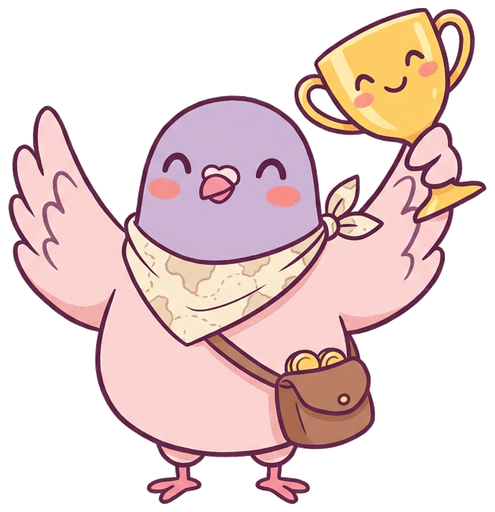
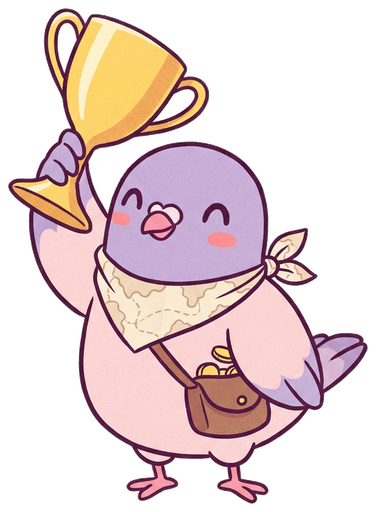
Mascot: trophy and ledger art with the lilac wing tips and tail (Tilly)
trophy-a had all-pink wings and ledger-a showed no lilac, unlike the original wave/celebrate art.
Swapped to the existing trophy-b and ledger-b candidates, which have the lilac tips and tail; the other
ten product poses already had them. make.py now names the mascot Tilly, asks for lilac wing tips and a
lilac tail, retries upstream failures, and builds sheet-v3.png (original wave next to every candidate).
A fresh round (seeds d/e/f) could not run: every Nicrron image job fails with upstream fal 403.

diff --git a/design/mascots/atlas_v2/make.py b/design/mascots/atlas_v2/make.py
@@ -1,8 +1,9 @@
-"""Atlas v2 poses: generate on Nicrron (google/nano-banana-pro), cut to transparent PNG, build the contact sheet.
+"""Tilly (formerly Atlas) poses: generate on Nicrron (google/nano-banana-pro), cut to transparent PNG, build contact sheets.
 
-    .venv/bin/python design/mascots/atlas_v2/make.py gen [pose ...] [--cand a|b]
+    .venv/bin/python design/mascots/atlas_v2/make.py gen [pose ...] [--cand a|b|c|d|e|f]
     .venv/bin/python design/mascots/atlas_v2/make.py cut
-    .venv/bin/python design/mascots/atlas_v2/make.py sheet
+    .venv/bin/python design/mascots/atlas_v2/make.py sheet     # v2 candidates a/b -> sheet.png, pick.html
+    .venv/bin/python design/mascots/atlas_v2/make.py sheet3    # product poses vs original wave, picks -> sheet-v3.png
 
 Nicrron's image endpoint takes only model, prompt and seed (no reference image), so consistency comes from
 reusing the character and style wording of the original atlas_flat sheet word for word. Candidates differ by seed.
@@ -25,7 +26,7 @@ load_dotenv(ROOT / ".env")
 
 # Character and style sentences copied from the prompt that made design/mascots/atlas_flat/sheet.png.
 CHARACTER = (
-    "The character: Atlas, a chubby carrier pigeon with a round lilac head, blush-pink body, small pink beak, eyes always drawn as happy closed "
+    "The character: Tilly, a chubby carrier pigeon with a round lilac head, blush-pink body, small pink beak, eyes always drawn as happy closed "
     "upward crescent arcs like ^ ^ with rosy cheek blush, a small brown cross-body satchel with gold coins, a cream map-print neck scarf."
 )
 STYLE = (
@@ -37,7 +38,12 @@ FRAME = (
     "no text, no letters, no numbers, no symbols, no logos. Not a die-cut sticker: no white sticker edge, no outer outline, no drop shadow."
 )
 # Details the original sheet shows that a single pose tends to lose.
-DETAILS = "Small pink feet. The scarf is a cream bandana neckerchief tied in a small knot at the side, with a faint beige map print."
+DETAILS = (
+    "Small pink feet. The scarf is a cream bandana neckerchief tied in a small knot at the side, with a faint beige map print. "
+    # Round d/e/f: the original wave/celebrate art has these, and a/b lost them on some poses (e.g. all-pink trophy wings).
+    "Both wings are blush pink with soft lilac-purple tips on the outer flight feathers, and the short tail feathers are lilac, "
+    "the same lilac as the head."
+)
 EYES = "The eyes are closed happy arcs ^ ^ with no pupils and no dots."
 
 POSES = {
@@ -58,7 +64,10 @@ POSES = {
     "sleeping": "Pose: curled up asleep on a soft lavender pillow, eyes closed as gentle downward arcs, a few small round sleep bubbles.",
     "star-badge": "Pose: holding up a big shiny gold star badge with both wings.",
 }
-SEEDS = {"a": 1100, "b": 2200, "c": 3300}  # c: one retry for poses that came out off-model
+SEEDS = {"a": 1100, "b": 2200, "c": 3300, "d": 4400, "e": 5500, "f": 6600}  # c: retry; d/e/f: lilac-wing round
+ROUND3 = ("d", "e", "f")
+PRODUCT_POSES = ("coin", "coin-stack", "trophy", "medal", "piggy-bank", "ledger",
+                 "receipt", "laptop", "globe", "envelope", "flag", "star-badge")
 
 
 def prompt_for(pose: str) -> str:
@@ -67,6 +76,17 @@ def prompt_for(pose: str) -> str:
 
 
 def generate(pose: str, cand: str) -> str:
+    """One job; an upstream failure (Nicrron reported "upstream fal returned 403") is retried with backoff."""
+    for wait in (30, 90, 180, 0):
+        result = _generate_once(pose, cand)
+        if " failed {" not in result or not wait:
+            return result
+        print(f"{result[:160]} ... retrying in {wait}s", flush=True)
+        time.sleep(wait)
+    return result
+
+
+def _generate_once(pose: str, cand: str) -> str:
     base = os.environ.get("NICRRON_BASE_URL", "https://api.nicrron.ai/v1")
     headers = {"Authorization": "Bearer " + os.environ["NICRRON_API_KEY"]}
     origin = base.split("/v1")[0]
@@ -90,7 +110,7 @@ def generate(pose: str, cand: str) -> str:
             continue
         job = g.json()
     if job.get("status") in ("failed", "error") or not job.get("content_url"):
-        return f"{pose}-{cand}: failed {str(job)[:200]}"
+        return f"{pose}-{cand}: failed {str({k: v for k, v in job.items() if k != 'prompt'})[:300]}"
     for _ in range(8):  # right after "succeeded" the file can answer 410 for a second or two
         img = httpx.get(origin + job["content_url"], headers=headers, timeout=120, follow_redirects=True)
         if img.status_code == 200 and img.headers.get("content-type", "").startswith("image"):
@@ -124,6 +144,8 @@ def cut_background(img: Image.Image) -> Image.Image:
 def cut() -> None:
     OUT.mkdir(exist_ok=True)
     for raw in sorted(RAW.glob("*.png")):
+        if (OUT / raw.name).exists():
+            continue
         img = cut_background(Image.open(raw))
         img = img.crop(img.getbbox())
         scale = 496 / max(img.size)
@@ -196,6 +218,39 @@ PICK_HTML = """<!doctype html>
 """
 
 
+# Product pick per pose after the lilac-wing check (lilac wing tips and tail, crescent eyes, flat, no text).
+# Round d/e/f could not run (Nicrron image upstream "fal returned 403"), so trophy and ledger moved to the
+# existing candidates that already have the lilac tips and tail; the rest already had them.
+PICKS3: dict[str, str] = {
+    "coin": "b", "coin-stack": "a", "trophy": "b", "medal": "a", "piggy-bank": "b", "ledger": "b",
+    "receipt": "a", "laptop": "a", "globe": "a", "envelope": "a", "flag": "a", "star-badge": "a",
+}
+
+
+def sheet3() -> None:
+    """sheet-v3.png: the original wave.png first for comparison, then every candidate of each product pose, pick outlined."""
+    ref = ROOT / "web/assets/mascot/wave.png"
+    cells = [(ref, "original wave", False)] + [
+        (OUT / f"{pose}-{cand}.png", f"{pose} · {cand}", PICKS3.get(pose) == cand)
+        for pose in PRODUCT_POSES for cand in SEEDS if (OUT / f"{pose}-{cand}.png").exists()]
+    cols, cell, label_h = 7, 260, 34
+    rows = -(-len(cells) // cols)
+    page = Image.new("RGB", (cols * cell, rows * (cell + label_h)), "#F8F7FC")
+    font = ImageFont.truetype("/System/Library/Fonts/Supplemental/Arial.ttf", 18)
+    draw = ImageDraw.Draw(page)
+    for i, (f, label, pick) in enumerate(cells):
+        x, y = (i % cols) * cell, (i // cols) * (cell + label_h)
+        if pick or i == 0:
+            draw.rounded_rectangle((x + 4, y + 4, x + cell - 4, y + cell + label_h - 4), 18,
+                                   outline="#6B5BC2" if pick else "#C42F78", width=4)
+        im = Image.open(f)
+        im.thumbnail((cell - 32, cell - 32), Image.LANCZOS)
+        page.paste(im, (x + (cell - im.width) // 2, y + (cell - im.height) // 2 + 6), im)
+        draw.text((x + 16, y + cell - 2), label, fill="#4B4D66", font=font)
+    page.save(HERE / "sheet-v3.png", optimize=True)
+    print("sheet-v3", page.size, len(cells))
+
+
 if __name__ == "__main__":
     cmd, args = sys.argv[1], sys.argv[2:]
     if cmd == "gen":
@@ -208,3 +263,5 @@ if __name__ == "__main__":
         cut()
     elif cmd == "sheet":
         sheet()
+    elif cmd == "sheet3":
+        sheet3()
